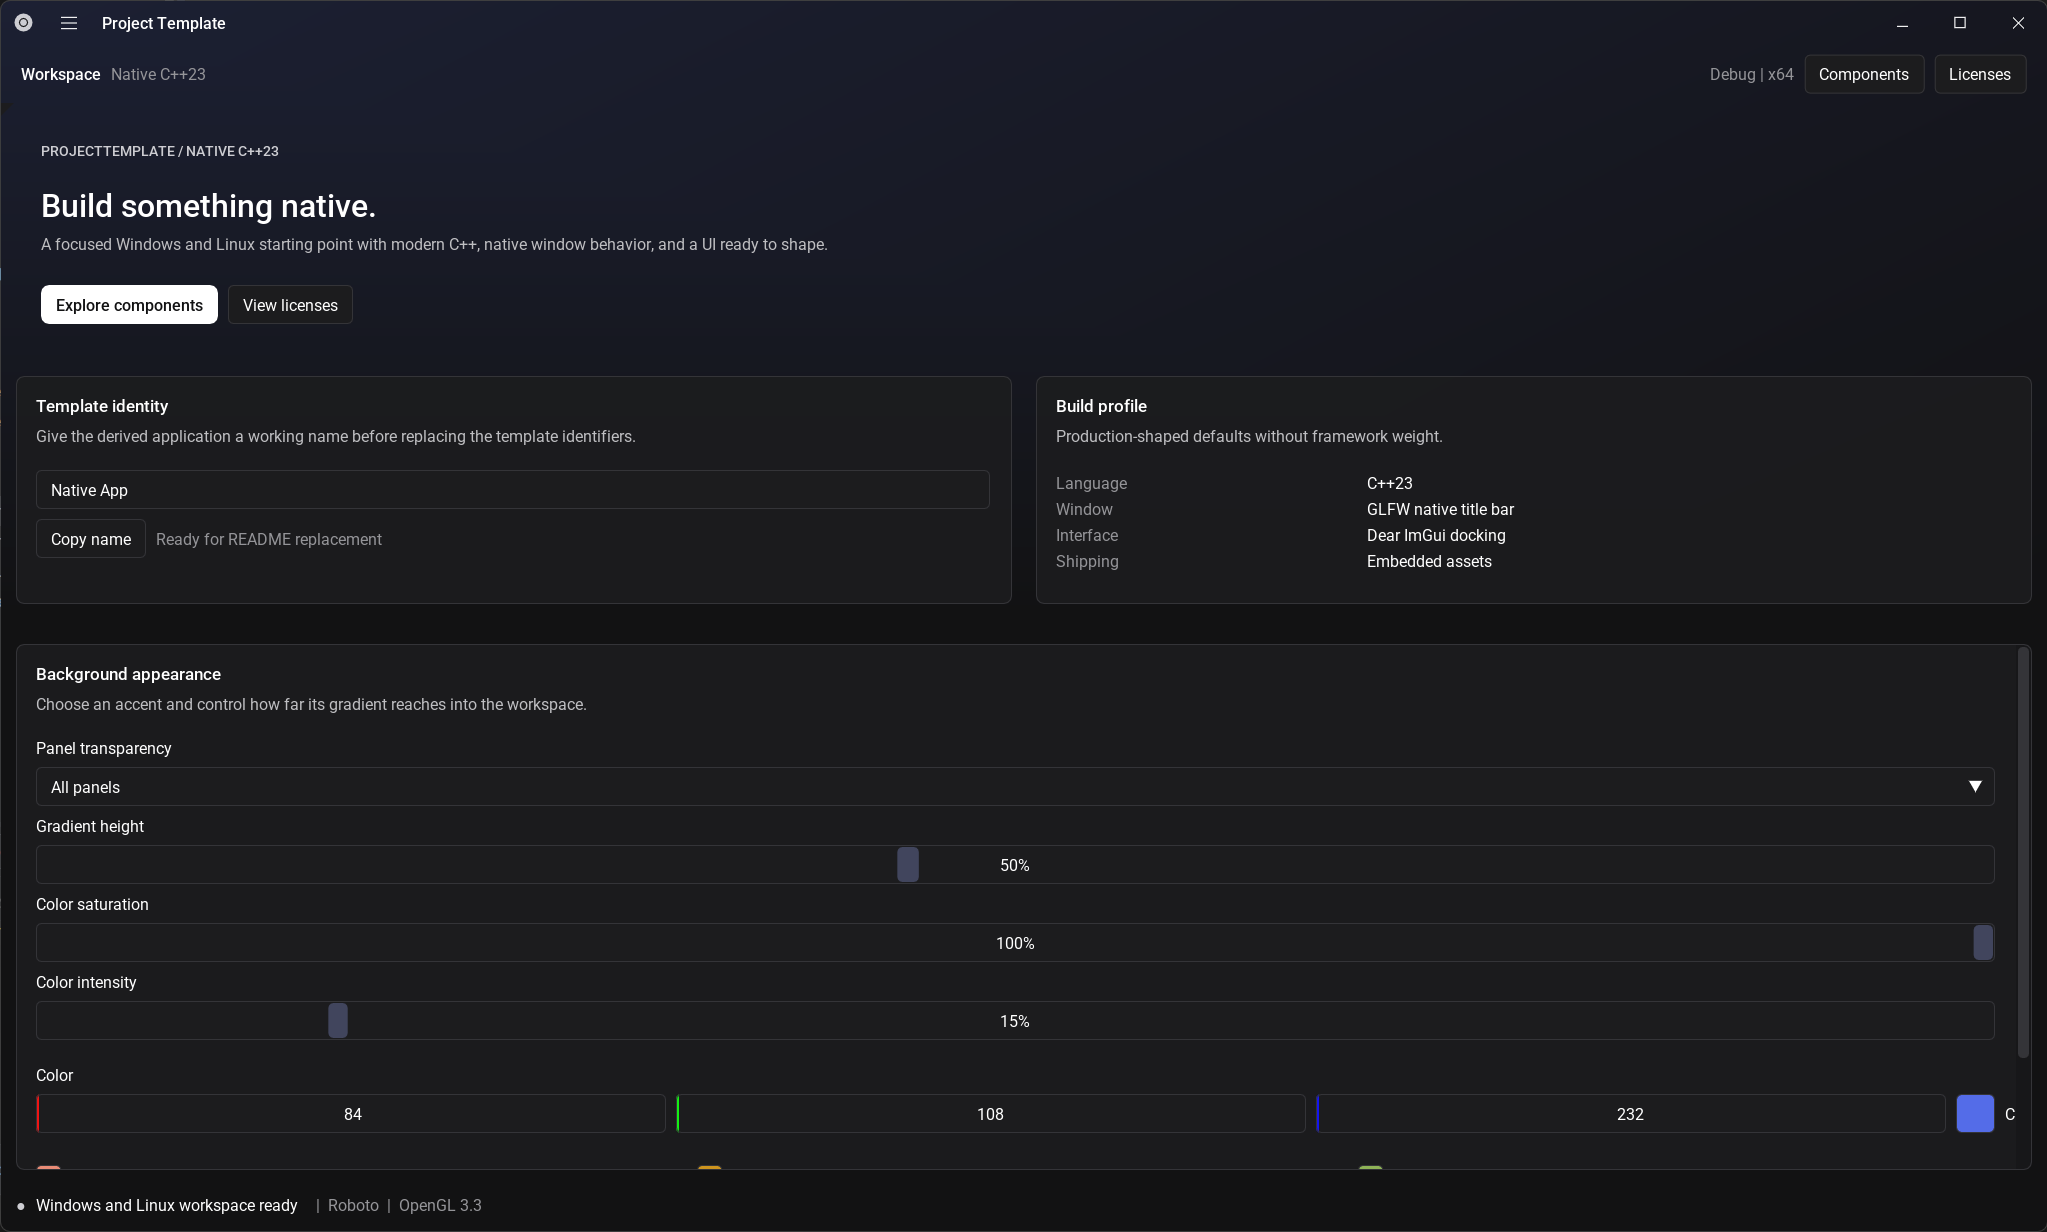
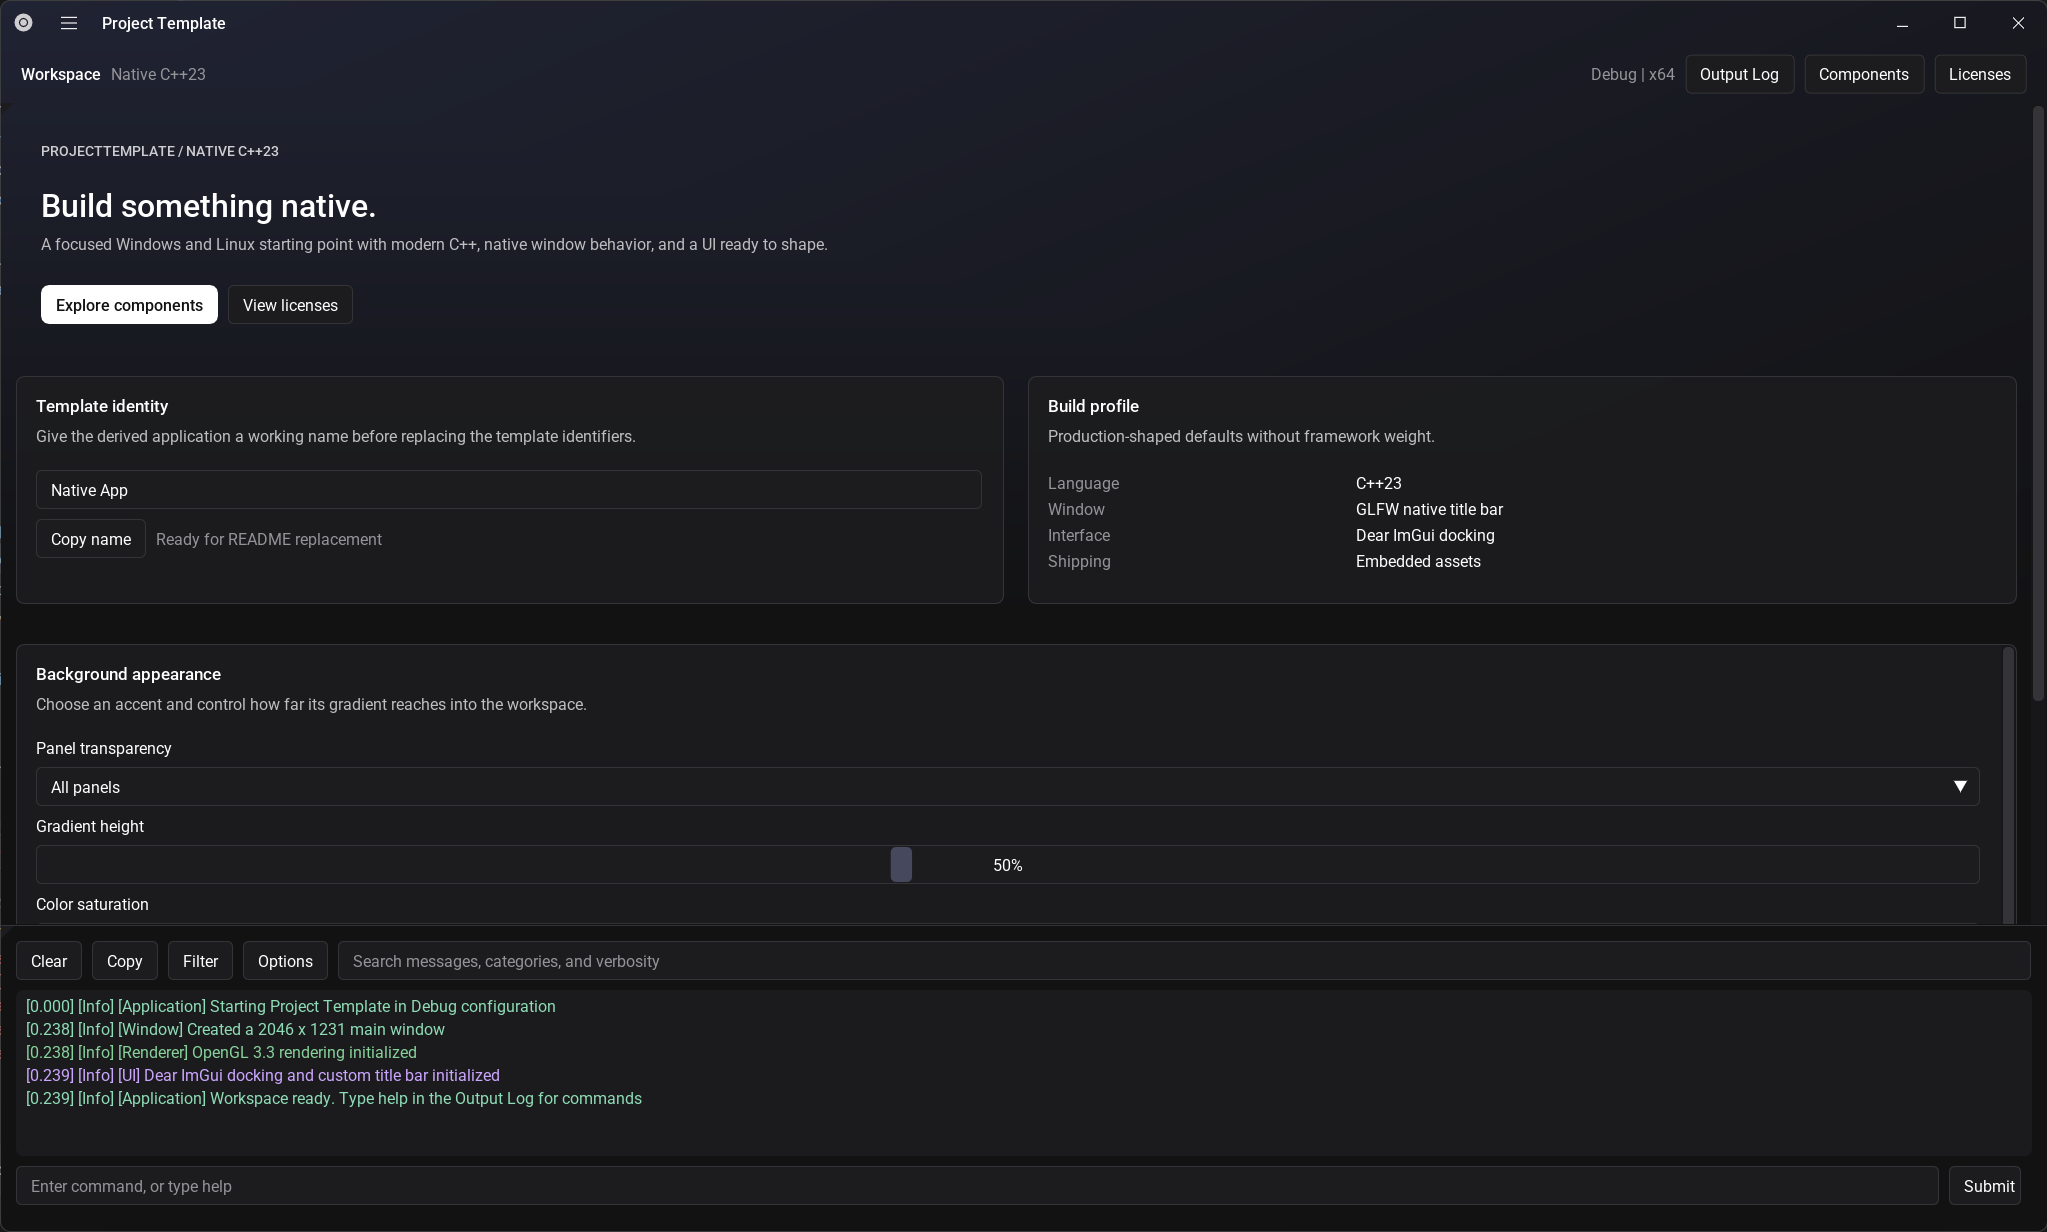
Updated inactive gradient

diff --git a/Source/Application/Application.cpp b/Source/Application/Application.cpp
@@ -372,15 +372,16 @@ int TitleBarHitTestCallback(GLFWwindow* const Window, const int X, const int Y)
 	return ApplySaturation(ImGui::ColorConvertFloat4ToU32(State.BackgroundColor), State.BackgroundSaturation);
 }
 
-void DrawApplicationBackground(const FUiState& State)
+void DrawApplicationBackground(const FUiState& State, const bool bFocused)
 {
 	ImGuiViewport& Viewport = *ImGui::GetMainViewport();
 	const ImVec2 CanvasMin = Viewport.Pos;
 	const ImVec2 CanvasMax = { Viewport.Pos.x + Viewport.Size.x, Viewport.Pos.y + Viewport.Size.y };
 	const ImVec2 GradientMax = { CanvasMax.x, CanvasMin.y + Viewport.Size.y * State.GradientHeight };
-	const ImU32 SaturatedColor = ResolveBackgroundAccent(State);
-	const ImU32 TopLeft = MixColors(Theme::Colors::Canvas, SaturatedColor, State.BackgroundIntensity);
-	const ImU32 TopRight = MixColors(Theme::Colors::Canvas, SaturatedColor, State.BackgroundIntensity * Theme::Background::TrailingIntensityRatio);
+	const float FocusSaturation = bFocused ? State.BackgroundSaturation : State.BackgroundSaturation * Theme::Background::UnfocusedSaturationRatio;
+	const ImU32 GradientColor = ApplySaturation(ImGui::ColorConvertFloat4ToU32(State.BackgroundColor), FocusSaturation);
+	const ImU32 TopLeft = MixColors(Theme::Colors::Canvas, GradientColor, State.BackgroundIntensity);
+	const ImU32 TopRight = MixColors(Theme::Colors::Canvas, GradientColor, State.BackgroundIntensity * Theme::Background::TrailingIntensityRatio);
 	ImDrawList& DrawList = *ImGui::GetBackgroundDrawList(&Viewport);
 	DrawList.AddRectFilled(CanvasMin, CanvasMax, Theme::Colors::Canvas);
 	DrawList.AddRectFilledMultiColor(
@@ -1127,7 +1128,7 @@ void RenderApplicationFrame(GLFWwindow* const Window, FApplicationRuntime& Runti
 	ImGui::NewFrame();
 	Runtime.Window.bUiCapturesMouse = ImGui::GetIO().WantCaptureMouse;
 
-	DrawApplicationBackground(Runtime.Ui);
+	DrawApplicationBackground(Runtime.Ui, Runtime.Window.bFocused);
 	DrawTitleBar(Runtime.Window, Runtime.Resources->Fonts);
 	DrawWorkspace(Runtime.Window.TitleBar, *Runtime.Resources, Runtime.Ui, Runtime.OutputLog);
 	DrawApplicationMenu(Window, Runtime.Window.TitleBar, Runtime.Ui);

diff --git a/Source/UI/ApplicationTheme.h b/Source/UI/ApplicationTheme.h
@@ -46,9 +46,10 @@ inline constexpr FPreset Presets[] = {
 inline constexpr int PresetCount = sizeof(Presets) / sizeof(Presets[0]);
 inline constexpr int DefaultPreset = 6;
 inline constexpr float DefaultGradientHeight = 0.50f;
-inline constexpr float DefaultSaturation = 1.0f;
+inline constexpr float DefaultSaturation = 0.8f;
 inline constexpr float DefaultIntensity = 0.15f;
 inline constexpr float TrailingIntensityRatio = 0.40f;
+inline constexpr float UnfocusedSaturationRatio = 0.6f;
 
 static_assert(DefaultPreset >= 0 && DefaultPreset < PresetCount);
 }
